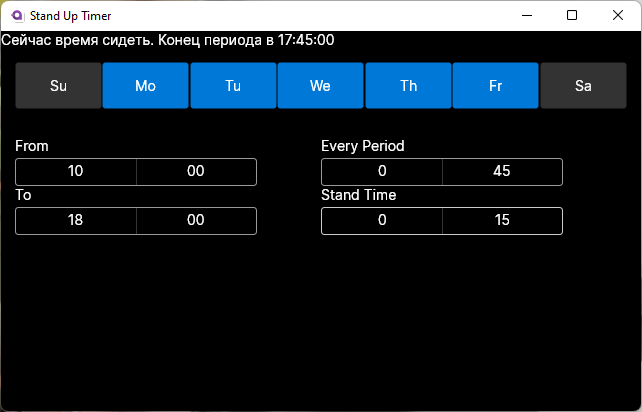
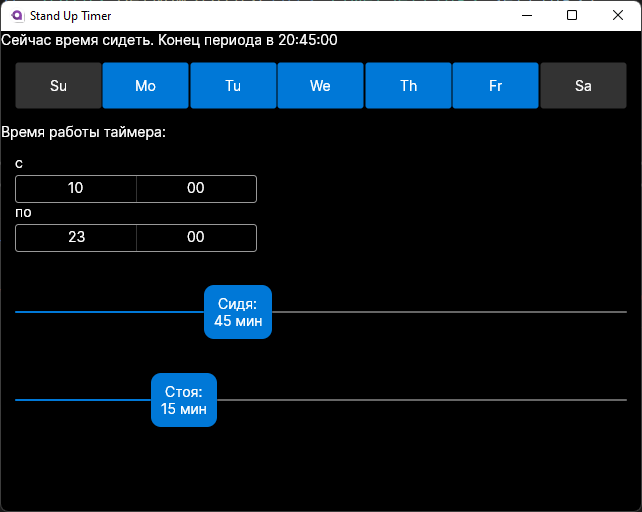
Change slider style

diff --git a/src/StandUpTimer.Core/ViewModels/MainWindowViewModel.cs b/src/StandUpTimer.Core/ViewModels/MainWindowViewModel.cs
@@ -1,6 +1,7 @@
 using StandUpTimer.Core.Models;
 using StandUpTimer.Core.Services;
 using System.ComponentModel;
+using System.Threading.Tasks;
 
 namespace StandUpTimer.Core.ViewModels;
 
@@ -10,7 +11,6 @@ public class MainWindowViewModel : ViewModelBase
     private readonly ISettingsStorage _settingsStorage;
     private readonly StandTimer _standTimer;
 
- 
 
     public string? Message { get; set; }
 
@@ -26,21 +26,27 @@ public class MainWindowViewModel : ViewModelBase
 
     public TimeSpan ToTime { get; set; }
 
-    public TimeSpan EveryPeriod { get; set; }
+    /// <summary>
+    /// min
+    /// </summary>
+    public int EveryPeriod { get; set; }
 
-    public TimeSpan StandTime { get; set; }
+    /// <summary>
+    /// min
+    /// </summary>
+    public int StandTime { get; set; }
 
     public MainWindowViewModel(INotifyService notifyService, ISettingsStorage settingsStorage)
     {
         _notifyService = notifyService;
         _settingsStorage = settingsStorage;
-        
+
         var timerSettings = _settingsStorage.GetSettings();
 
         FromTime = timerSettings.FromTime;
         ToTime = timerSettings.ToTime;
-        EveryPeriod = timerSettings.EveryPeriod;
-        StandTime = timerSettings.StandTime;
+        EveryPeriod = timerSettings.EveryPeriod.Minutes;
+        StandTime = timerSettings.StandTime.Minutes;
 
         SetActiveDays(timerSettings.Day);
 
@@ -55,12 +61,12 @@ public class MainWindowViewModel : ViewModelBase
 
     private async void StandTimerOnNotify(Notify notify)
     {
-       await _notifyService.Notify(notify);
+        await _notifyService.Notify(notify);
 
-      
+        await Task.Delay(1000);
 
         var settings = GetSettings();
-        
+
         _standTimer.Start(settings);
     }
 
@@ -74,7 +80,7 @@ public class MainWindowViewModel : ViewModelBase
         var settings = GetSettings();
 
         _settingsStorage.SetSettings(settings);
-        
+
         _standTimer.Start(settings);
     }
 
@@ -83,8 +89,8 @@ public class MainWindowViewModel : ViewModelBase
         Day = GetActiveDays(),
         FromTime = FromTime,
         ToTime = ToTime,
-        EveryPeriod = EveryPeriod,
-        StandTime = StandTime
+        EveryPeriod = new TimeSpan(0, EveryPeriod, 0),
+        StandTime = new TimeSpan(0, StandTime, 0),
     };
 
     private Day GetActiveDays()
@@ -119,6 +125,4 @@ public class MainWindowViewModel : ViewModelBase
         IsSaturday = day.HasFlag(Day.Saturday);
         IsSunday = day.HasFlag(Day.Sunday);
     }
-
-    
 }

diff --git a/src/StandUpTimer.Core/Models/TimeExtensions.cs b/src/StandUpTimer.Core/Models/TimeExtensions.cs
@@ -9,7 +9,7 @@ public static class TimeExtensions
         if (settings.Day == Day.None)
             return new AllDaysUnsettedStatus();
 
-        if (settings.StandTime.Minutes <= 0 || settings.EveryPeriod.Minutes <= 0)
+        if (settings.StandTime.TotalMinutes <= 0 || settings.EveryPeriod.TotalMinutes <= 0)
             return new TimerNotWorkingStatus();
 
         var now = DateTime.Now;
